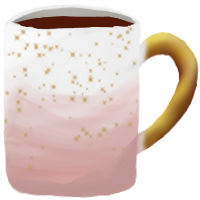
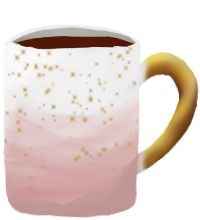
brew coffee function changes frame

diff --git a/solstice/js/day1.js b/solstice/js/day1.js
@@ -6,7 +6,7 @@ var Day1 = function(game){
 	this.cake, this.croiss, this.cookie, this.brownie, this.pudding, this.pastry;
 	this.gameMusic, this.x; 
 	
-	this.drinkNumber, this.ingredientCounter = 0, this.drinkCounter;
+	this.drinkNumber = 0, this.ingredientCounter = 0, this.drinkCounter = 0;
 };
 Day1.prototype = {
 	create: function(){
@@ -43,6 +43,8 @@ Day1.prototype = {
 		//adds coffee machine
 		this.machine = game.add.sprite(1350, 700, 'coffeeMachine');
 		this.machine.anchor = new Phaser.Point(0.5, 1);
+		
+		//add go button on coffee machine
 		this.machineButton = game.add.button(1425, 150, 'goMachine', this.brewCoffee, this);
 		this.machineButton.inputEnabled = true; //enable input for hand on mouseover
 		this.machineButton.input.useHandCursor = true;
@@ -57,7 +59,7 @@ Day1.prototype = {
 		
 
 		//add mug
-		this.mug = game.add.sprite(1380, 480, 'mug');
+		this.mug = game.add.sprite(1380, 460, 'mug');
 		this.mug.enableBody = true;
 		this.mug.immovable = true;
 		this.physics.arcade.enable(this.mug);
@@ -151,9 +153,15 @@ Day1.prototype = {
 				chocoSyrup.y = 500;	
 				this.ingredientCounter += 1;
 			}
-		}	
+		}
 	},
 	
+	//brew coffee function
+	brewCoffee: function(){
+		if(this.ingredientCounter == 2){
+			this.mug.frame = 2;
+		}
+	},
 //------------------- ink
 	continueStory: function(){
 		if(!this.autoContinueStory){

diff --git a/solstice/js/mainMenu.js b/solstice/js/mainMenu.js
@@ -13,7 +13,8 @@ MainMenu.prototype = {
 		game.load.image('brownie', 'assets/images/dessert4.png');
 		game.load.image('pudding', 'assets/images/dessert5.png');
 		game.load.image('pastry', 'assets/images/dessert6.png');
-		game.load.image('mug', 'assets/images/mug.png');
+		//game.load.image('mug', 'assets/images/mug.png');
+		game.load.spritesheet('mug', 'assets/images/mugs.png', 200, 220, 3);
 		game.load.image('mugWCream', 'assets/images/mugCream.png');
 		game.load.image('mugFill','assets/images/mugFilled.png');
 		game.load.image('counter', 'assets/images/counter.png');
